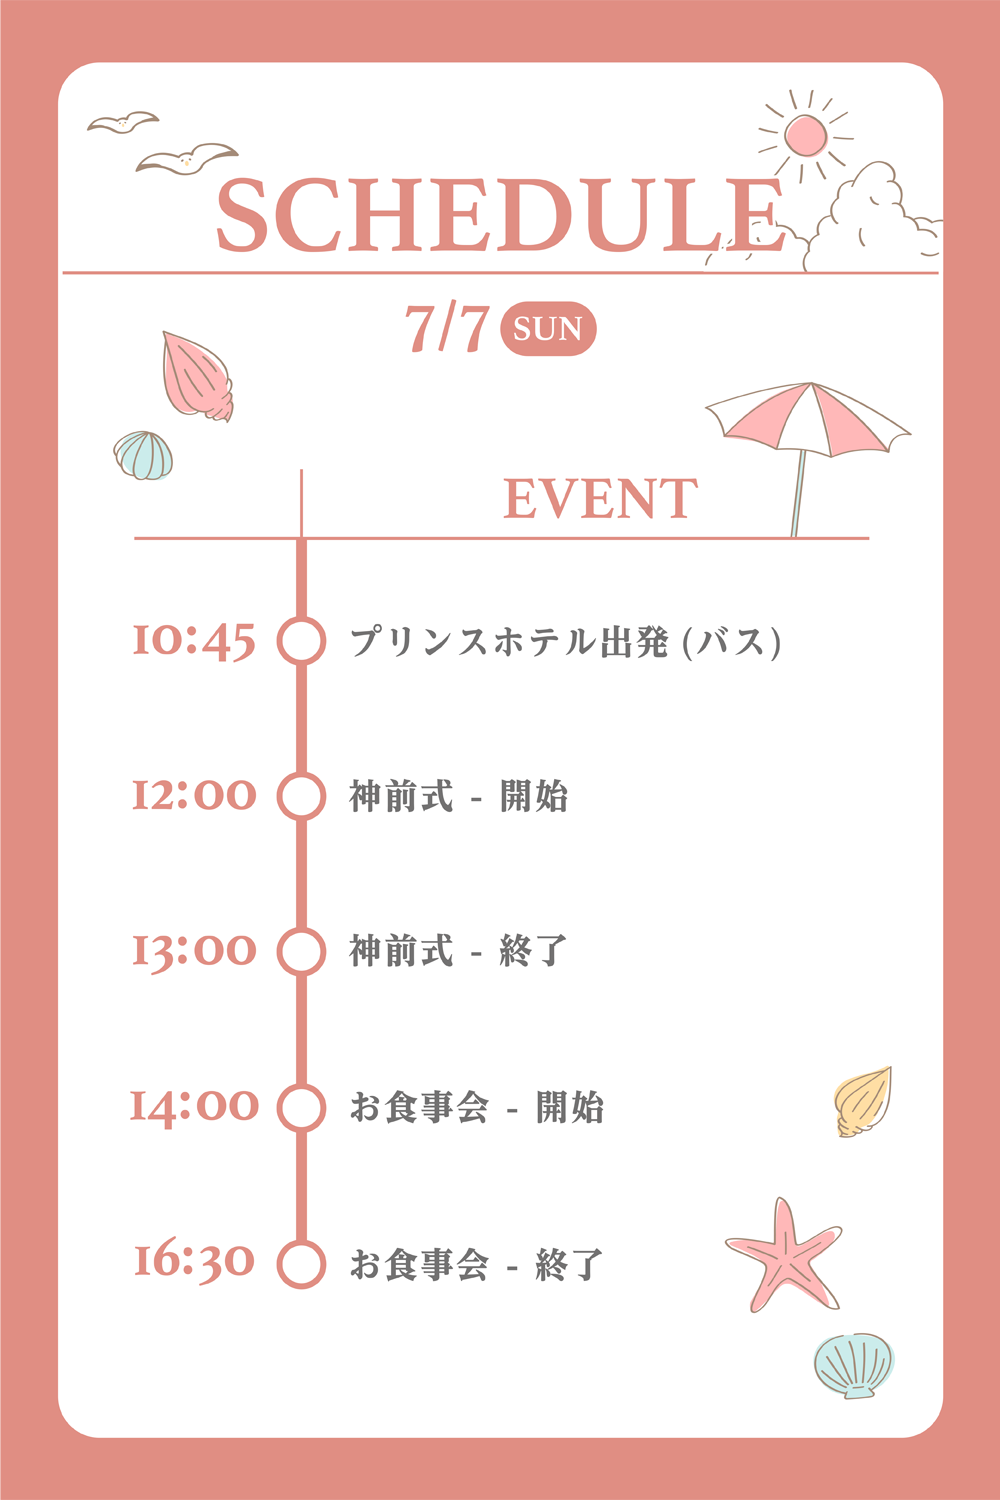
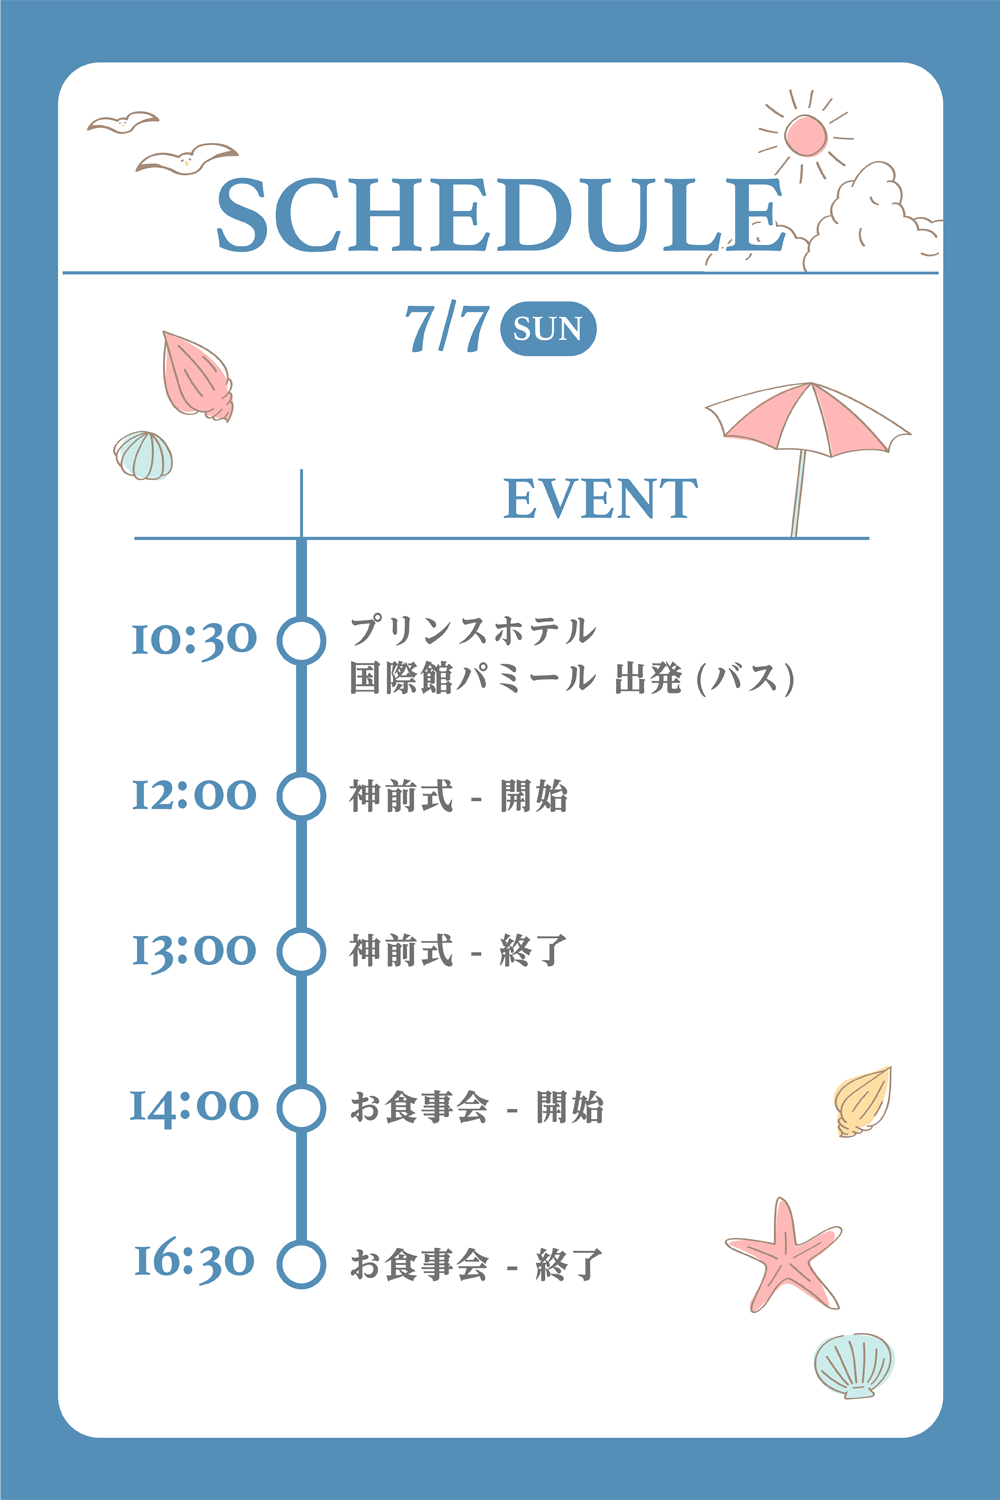
fix: layout

diff --git a/src/app/packages/ui/Components/Attendance/Attendance.tsx b/src/app/packages/ui/Components/Attendance/Attendance.tsx
@@ -6,7 +6,7 @@ import Image from "next/image";
 export function Attendance() {
   return (
     <Box mb={30}>
-      <Box c={"red.0"}  mb={16} ml={-17} mr={-17} h={60}
+      <Box c={"blue.0"}  mb={16} ml={-17} mr={-17} h={60}
         style={{ display: 'flex', alignItems: 'center', justifyContent: 'center', borderRadius: 8}}
       >
         <Title order={3}>
@@ -25,9 +25,6 @@ export function Attendance() {
             <Closing />
           </Box>
         </Box>
-        <Title order={5}>
-          7/7のスケジュール
-        </Title>
         <Box mb={16}>
           <Box mt={16} ta={'center'}>
             <Image src={"/schedule.png"} alt="schedule" width={300} height={450} />
@@ -102,20 +99,6 @@ function Closing () {
           ・男性の場合、着物、スーツなどが推奨されます。
         </Text>
       </TabsPanel>
-{/*
-      <TabsPanel value="third" pt="md" className={styles.tabsPanelThird}>
-        <Text fz={'md'}>
-          レンタルの場合、新郎新婦どちらかにご相談するとスムーズです。
-          <br />
-          あるいは、札幌市中央区内のレンタル業者をお探しください。
-          神宮での着付・貸衣裳は、うやまビューティサロン本店が近いためそちらをご利用ください。
-        </Text>
-        <Link href={'https://uyama.co.jp/'} style={{ color: '#228be6', textDecoration: 'none' }}>
-          <span style={{ borderBottom: '1px solid #228be6' }}>
-            https://uyama.co.jp/
-          </span>
-        </Link>
-      </TabsPanel> */}
     </Tabs>
   )
 }

diff --git a/src/app/packages/ui/Components/Map/Map.tsx b/src/app/packages/ui/Components/Map/Map.tsx
@@ -8,7 +8,7 @@ const JINGU_LINK = "https://www.google.com/maps?ll=43.054333,141.307793&z=17&t=m
 export function Map() {
   return (
     <Box>
-      <Box c={"red.0"}  mb={16} ml={-17} mr={-17} h={60}
+      <Box c={"blue.0"}  mb={16} ml={-17} mr={-17} h={60}
         style={{ display: 'flex', alignItems: 'center', justifyContent: 'center', borderRadius: 8}}
       >
         <Title order={3}>
@@ -51,8 +51,6 @@ export function Map() {
           </Group>
 
           <Text size="md" c="dimmed">
-            地下鉄: 東西線 円山公園駅 3番出口より
-            <br />
             ※ 7/7は、札幌プリンスホテルよりシャトルバスが出ます
           </Text>
 

diff --git a/src/app/layout.tsx b/src/app/layout.tsx
@@ -56,7 +56,8 @@ export default function RootLayout({
             },
             colors: {
               'red': ['#F72869', '#EF3269', '#ED4401', '#EC4401', '#EB4401', '#EA4401', '#EA4401', '#EA4401', '#EA4401', '#EA4401'],
-              'bright-pink': ['#F0BBDD', '#ED9BCF', '#EC7CC3', '#ED5DB8', '#F13EAF', '#F71FA7', '#FF00A1', '#E00890', '#C50E82', '#AD1374'],
+              'blue': ['#1c7ed6', '#1c7ed6', '#1c7ed6', '#1c7ed6', '#1c7ed6', '#1c7ed6', '#1c7ed6', '#1c7ed6', '#1c7ed6', '#1c7ed6'],
+              // 'bright-pink': ['#F0BBDD', '#ED9BCF', '#EC7CC3', '#ED5DB8', '#F13EAF', '#F71FA7', '#FF00A1', '#E00890', '#C50E82', '#AD1374'],
             },
           }}
         >

diff --git a/src/app/packages/ui/Components/Flow/Flow.tsx b/src/app/packages/ui/Components/Flow/Flow.tsx
@@ -5,7 +5,7 @@ import Image from "next/image"
 export function Flow() {
   return (
     <Box mb={30}>
-      <Box c={"red.0"} mb={16} h={60}
+      <Box c={"blue.0"} mb={16} h={60}
         style={{ display: 'flex', alignItems: 'center', justifyContent: 'center', borderRadius: 8}}
       >
         <Title order={3}>
@@ -42,7 +42,7 @@ export function Flow() {
         </Text>
       </Box>
 
-      <Box c={"red.0"}  mb={16} h={60}
+      <Box c={"blue.0"}  mb={16} h={60}
         style={{ display: 'flex', alignItems: 'center', justifyContent: 'center', borderRadius: 8}}
       >
         <Title order={3}>

diff --git a/src/app/page.tsx b/src/app/page.tsx
@@ -10,6 +10,7 @@ import { Attendance } from "./packages/ui/Components/Attendance/Attendance";
 import Link from "next/link";
 import { Button, PinInput } from "@mantine/core";
 import { useEffect, useState } from "react";
+import { Fee } from "./packages/ui/Components/Fee/Fee";
 
 export default function Home() {
 
@@ -33,6 +34,7 @@ export default function Home() {
       <div className={styles.container}>
         <div className={styles.lowerHero}>
           <Greeting />
+          <Fee />
           <Profile />
           <Attendance />
           <Map />

diff --git a/src/app/packages/ui/Components/Profile/Profile.tsx b/src/app/packages/ui/Components/Profile/Profile.tsx
@@ -6,7 +6,7 @@ export function Profile() {
   return (
     <Box mb={30}>
       <div className={styles.container}>
-        <Box c={"red.0"}  mb={16} ml={-17} mr={-17} h={60}
+        <Box c={"blue.0"}  mb={16} ml={-17} mr={-17} h={60}
           style={{ display: 'flex', alignItems: 'center', justifyContent: 'center', borderRadius: 8}}
         >
           <Title order={3}>

diff --git a/src/app/packages/ui/Components/Greeting/Greeting.tsx b/src/app/packages/ui/Components/Greeting/Greeting.tsx
@@ -4,7 +4,7 @@ import styles from "./Greeting.module.css"
 export function Greeting() {
   return (
     <Box mb={30}>
-      <Box c={"red.0"}  mb={16} ml={-17} mr={-17} h={60}
+      <Box c={"blue.0"}  mb={16} ml={-17} mr={-17} h={60}
         style={{ display: 'flex', alignItems: 'center', justifyContent: 'center', borderRadius: 8}}
       >
         <Title order={3}>
